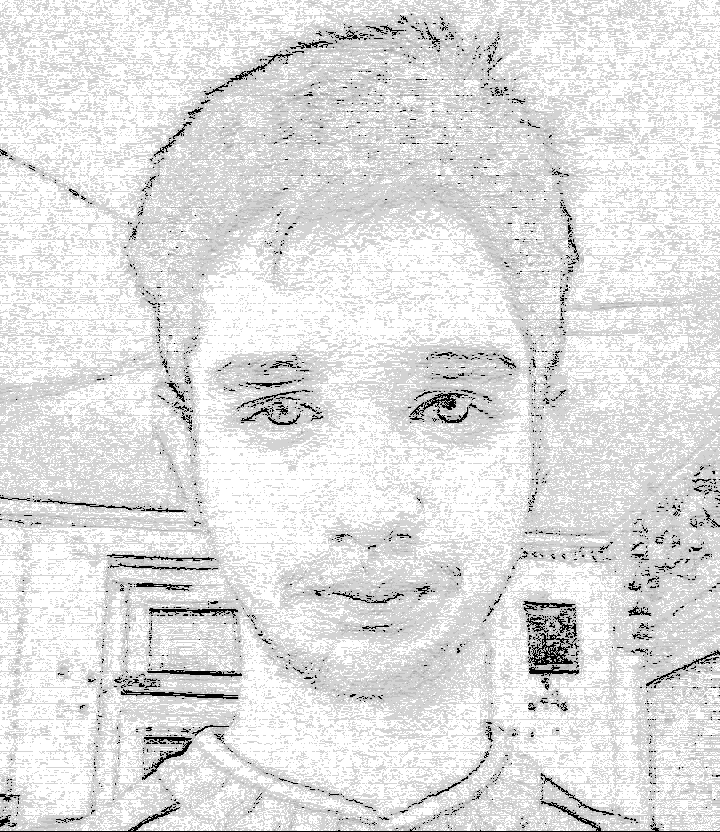
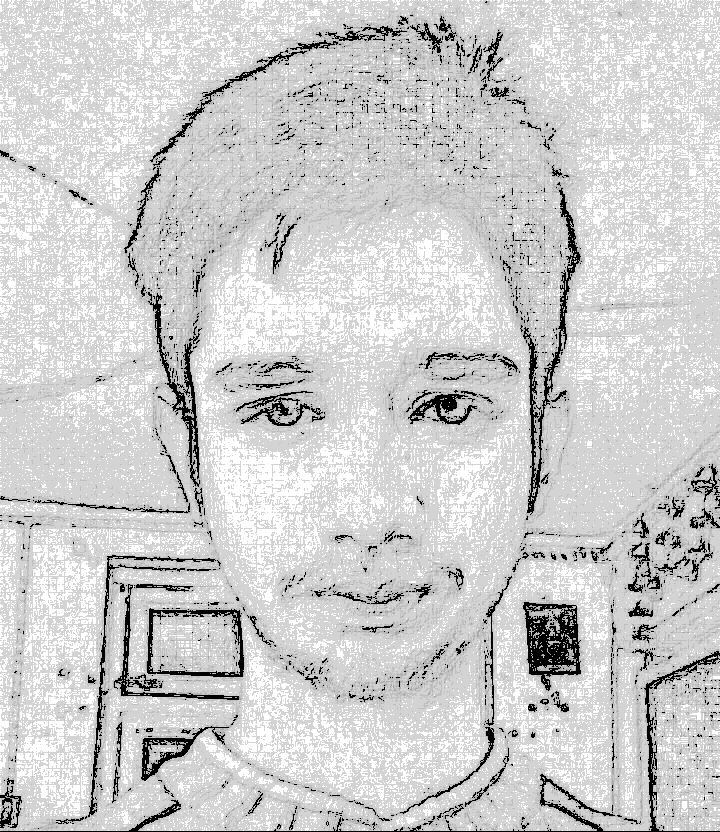
improved

diff --git a/Sketcher.py b/Sketcher.py
@@ -6,17 +6,26 @@ IMAGE_SORCE = Image.open("photo.jpg")
 
 
 def getdiff(im1, x, y):
+    per_diffA = 0
     l1 = np.array(im1.getpixel((x, y)))
-    l2 = np.array(im1.getpixel((x, y+1)))
-    result = np.abs(np.subtract(l1, l2))
-    diff = np.sum(result)
-    per_diff = (diff / np.sum(l1)) * 100
-    return per_diff
+    for i in range(-1, 1):
+            for j in range(-1, 1):
+                k = y + j
+                l = x + i
+                if k > -1 and k < im1.size[1] and l > -1 and l < im1.size[0]:
+                    l2 = np.array(im1.getpixel((x+i, y+j)))
+                    result = np.abs(np.subtract(l1, l2))
+                    diff = np.sum(result)
+                    per_diff = (diff / np.sum(l1)) * 100
+                    if per_diffA < per_diff:
+                        per_diffA = per_diff
+    return per_diffA
 
 
 def makeskrtch(im1):
     array = []
     for i in range(im1.size[1]-1):
+        print(i/(im1.size[1]-1)*100, "done")
         for j in range(im1.size[0]):
             per_diff = getdiff(im1, j, i)
             if per_diff > 15:
